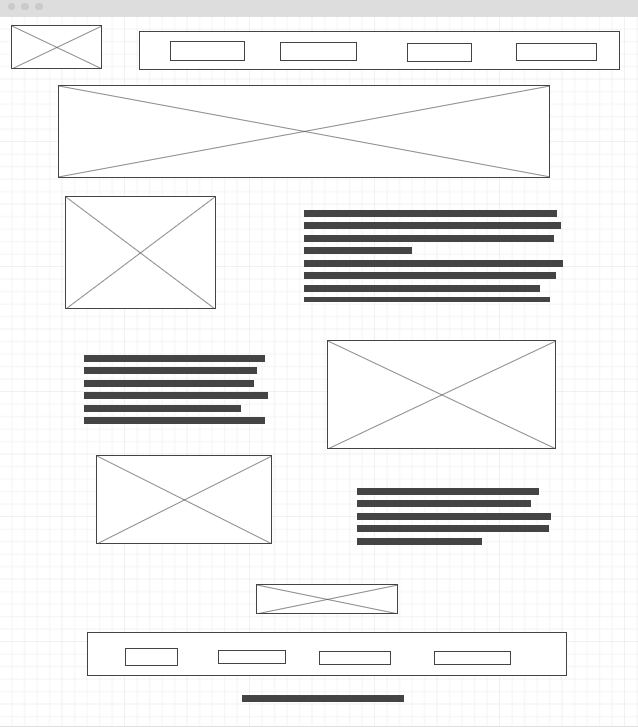
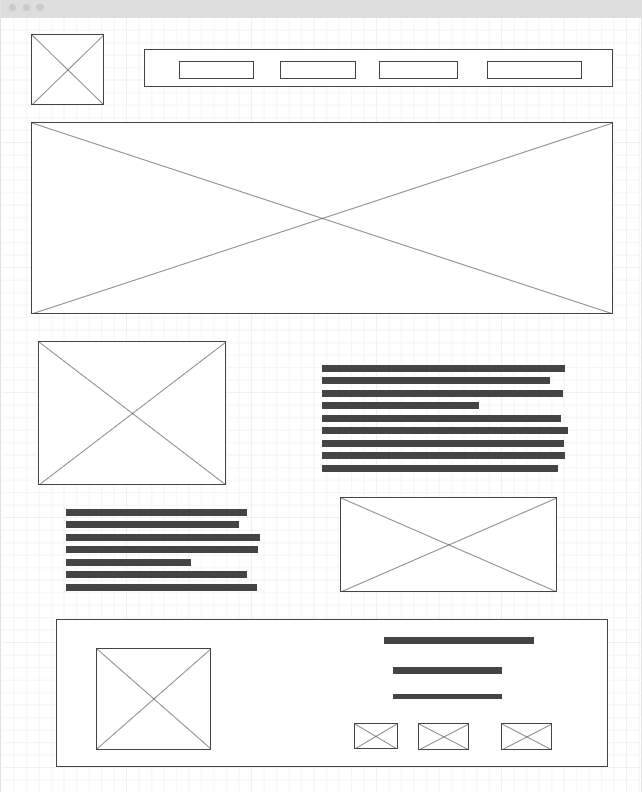
added pages and edits for pages

diff --git a/personal-site/blog.html b/personal-site/blog.html
@@ -5,7 +5,7 @@
     <meta http-equiv="X-UA-Compatible" content="IE=edge">
     <meta name="viewport" content="width=device-width, initial-scale=1.0">
     <title>Automatic Image Slider HTML, CSS and JavaScript</title>
-    <link rel="stylesheet" href="styles/style.css">
+    <link rel="stylesheet" href="styles/blog.css">
 </head>
 <body>
     <div id="content">
@@ -24,22 +24,16 @@
         <div id="full-key-img">
             <img src="images/hero_img.png" alt="image of game">
         </div>
-            <div id="slider">
-            <ul id="slideWrap"> 
-                <li><img src="images/rt_image_1.png" alt="image 1 from realms of time"></li>
-                <li><img src="images/rt_image_2.png" alt="image 2 from realms of time"></li>
-                <li><img src="images/rt_image_3.png" alt="image 3 from realms of time"></li>
-                <li><img src="images/rt_image_4.png" alt="image 4 from realms of time"></li>
-                <li><img src="images/rt_image_5.png" alt="image 5 from realms of time"></li>
-            </ul>
-            <a id="prev" >&#8810;</a>
-            <a id="next" >&#8811;</a>
+        <div id="main">
+            <a>Blog</a>
+        </div>
+        <div id="blogs">
+            <img class="blog" src="images/cave.png" alt="cave blog">
+            <img class="blog" src="images/spider.png" alt="spider blog">
         </div>
         <div id="main">
-            <a>Obstruction Studio</a>
-            <p>People stop to see this. This is a small studio that mainly makes games on roblox. The goal is to make games that players will enjoy. Games that will help friendships grow.</p>
+            <p>These are the recent updates or different blogs that we have put to give more images or information about the group or group games!</p>
         </div>
-        <script src="js-code/index.js"></script>
     </div>
     <div>
         

diff --git a/personal-site/about-us.html b/personal-site/about-us.html
@@ -5,7 +5,7 @@
     <meta http-equiv="X-UA-Compatible" content="IE=edge">
     <meta name="viewport" content="width=device-width, initial-scale=1.0">
     <title>Automatic Image Slider HTML, CSS and JavaScript</title>
-    <link rel="stylesheet" href="styles/style.css">
+    <link rel="stylesheet" href="styles/about-us.css">
 </head>
 <body>
     <div id="content">
@@ -24,22 +24,15 @@
         <div id="full-key-img">
             <img src="images/hero_img.png" alt="image of game">
         </div>
-            <div id="slider">
-            <ul id="slideWrap"> 
-                <li><img src="images/rt_image_1.png" alt="image 1 from realms of time"></li>
-                <li><img src="images/rt_image_2.png" alt="image 2 from realms of time"></li>
-                <li><img src="images/rt_image_3.png" alt="image 3 from realms of time"></li>
-                <li><img src="images/rt_image_4.png" alt="image 4 from realms of time"></li>
-                <li><img src="images/rt_image_5.png" alt="image 5 from realms of time"></li>
-            </ul>
-            <a id="prev" >&#8810;</a>
-            <a id="next" >&#8811;</a>
-        </div>
         <div id="main">
-            <a>Obstruction Studio</a>
-            <p>People stop to see this. This is a small studio that mainly makes games on roblox. The goal is to make games that players will enjoy. Games that will help friendships grow.</p>
+            <a>About us</a>
         </div>
-        <script src="js-code/index.js"></script>
+        <div id="about-grid">
+            <img src="images/cave.png" alt="">
+            <p>Right Top</p>
+            <p>Left Bottom</p>
+            <img src="images/spider.png" alt="">
+        </div>
     </div>
     <div>
         

diff --git a/personal-site/styles/blog.css b/personal-site/styles/blog.css
@@ -51,65 +51,6 @@ nav a:hover {
   color: #176179;
 }
 
-
- /*This part is the slider css*/ 
-
-  #slider {
-    margin: auto;
-    margin-top: 50px;
-
-    position: relative;
-    width: 500px;
-    height: 265px;
-  
-    overflow: hidden;
-    box-shadow: 0 0 30px rgba(0, 0, 0, 0.3);
-  }
-  #slider ul {
-    position: relative;
-    list-style: none;
-    height: 100%;
-    width: 10000%;
-    padding: 0;
-    margin: 0;
-    transition: all 750ms ease;
-    left: 0;
-  }
-  #slider ul li {
-    position: relative;
-    height: 100%;
-    float: left;
-  }
-  #slider ul li img{
-    width: 500px;
-    height: 265px;
-  }
-  #slider #prev, #slider #next {
-    width: 50px;
-    line-height: 50px;
-    text-align: center;
-    color: white;
-    text-decoration: none;
-    position: absolute;
-    top: 50%;
-    border-radius: 50%;
-    font-size: 2rem;
-    text-shadow: 0 0 20px rgba(0, 0, 0, 0.6);
-    transform: translateY(-50%);
-    transition: all 150ms ease;
-  }
-  #slider #prev {
-    left: 10px;
-  }
-  #slider #next {
-    right: 10px;
-  }
-  
-  #slider #prev:hover, #slider #next:hover {
-    background-color: rgba(0, 0, 0, 0.5);
-    text-shadow: 0;
-  }
-
 #main {
   margin-top: 40px;
   display: grid;
@@ -127,6 +68,26 @@ nav a:hover {
 
 #main p {
   justify-self: center;
+}
+
+#blogs {
+  width: 80%;
+  margin: auto;
+
+  display: grid;
+  grid-template-columns: 1fr 1fr 1fr;
+  grid-template-rows: repeat(auto-fit, 1fr);
+  border: 5px solid black;
+  box-shadow: 8px 8px 10px #333333;
+  background-color: beige;
+}
+
+.blog {
+  height: 200px;
+  color: #ffffff;
+  display: grid;
+  place-items: center;
+  border: 1px solid #ffffff;
 }
 
 #bottom-logo img {

diff --git a/personal-site/styles/about-us.css b/personal-site/styles/about-us.css
@@ -51,65 +51,6 @@ nav a:hover {
   color: #176179;
 }
 
-
- /*This part is the slider css*/ 
-
-  #slider {
-    margin: auto;
-    margin-top: 50px;
-
-    position: relative;
-    width: 500px;
-    height: 265px;
-  
-    overflow: hidden;
-    box-shadow: 0 0 30px rgba(0, 0, 0, 0.3);
-  }
-  #slider ul {
-    position: relative;
-    list-style: none;
-    height: 100%;
-    width: 10000%;
-    padding: 0;
-    margin: 0;
-    transition: all 750ms ease;
-    left: 0;
-  }
-  #slider ul li {
-    position: relative;
-    height: 100%;
-    float: left;
-  }
-  #slider ul li img{
-    width: 500px;
-    height: 265px;
-  }
-  #slider #prev, #slider #next {
-    width: 50px;
-    line-height: 50px;
-    text-align: center;
-    color: white;
-    text-decoration: none;
-    position: absolute;
-    top: 50%;
-    border-radius: 50%;
-    font-size: 2rem;
-    text-shadow: 0 0 20px rgba(0, 0, 0, 0.6);
-    transform: translateY(-50%);
-    transition: all 150ms ease;
-  }
-  #slider #prev {
-    left: 10px;
-  }
-  #slider #next {
-    right: 10px;
-  }
-  
-  #slider #prev:hover, #slider #next:hover {
-    background-color: rgba(0, 0, 0, 0.5);
-    text-shadow: 0;
-  }
-
 #main {
   margin-top: 40px;
   display: grid;

diff --git a/liquid.html b/liquid.html
@@ -1,4 +1,5 @@
-<!DOCTYPE html>
+
+]<!DOCTYPE html>
 <html lang="en">
 <head>
     <meta charset="UTF-8">
